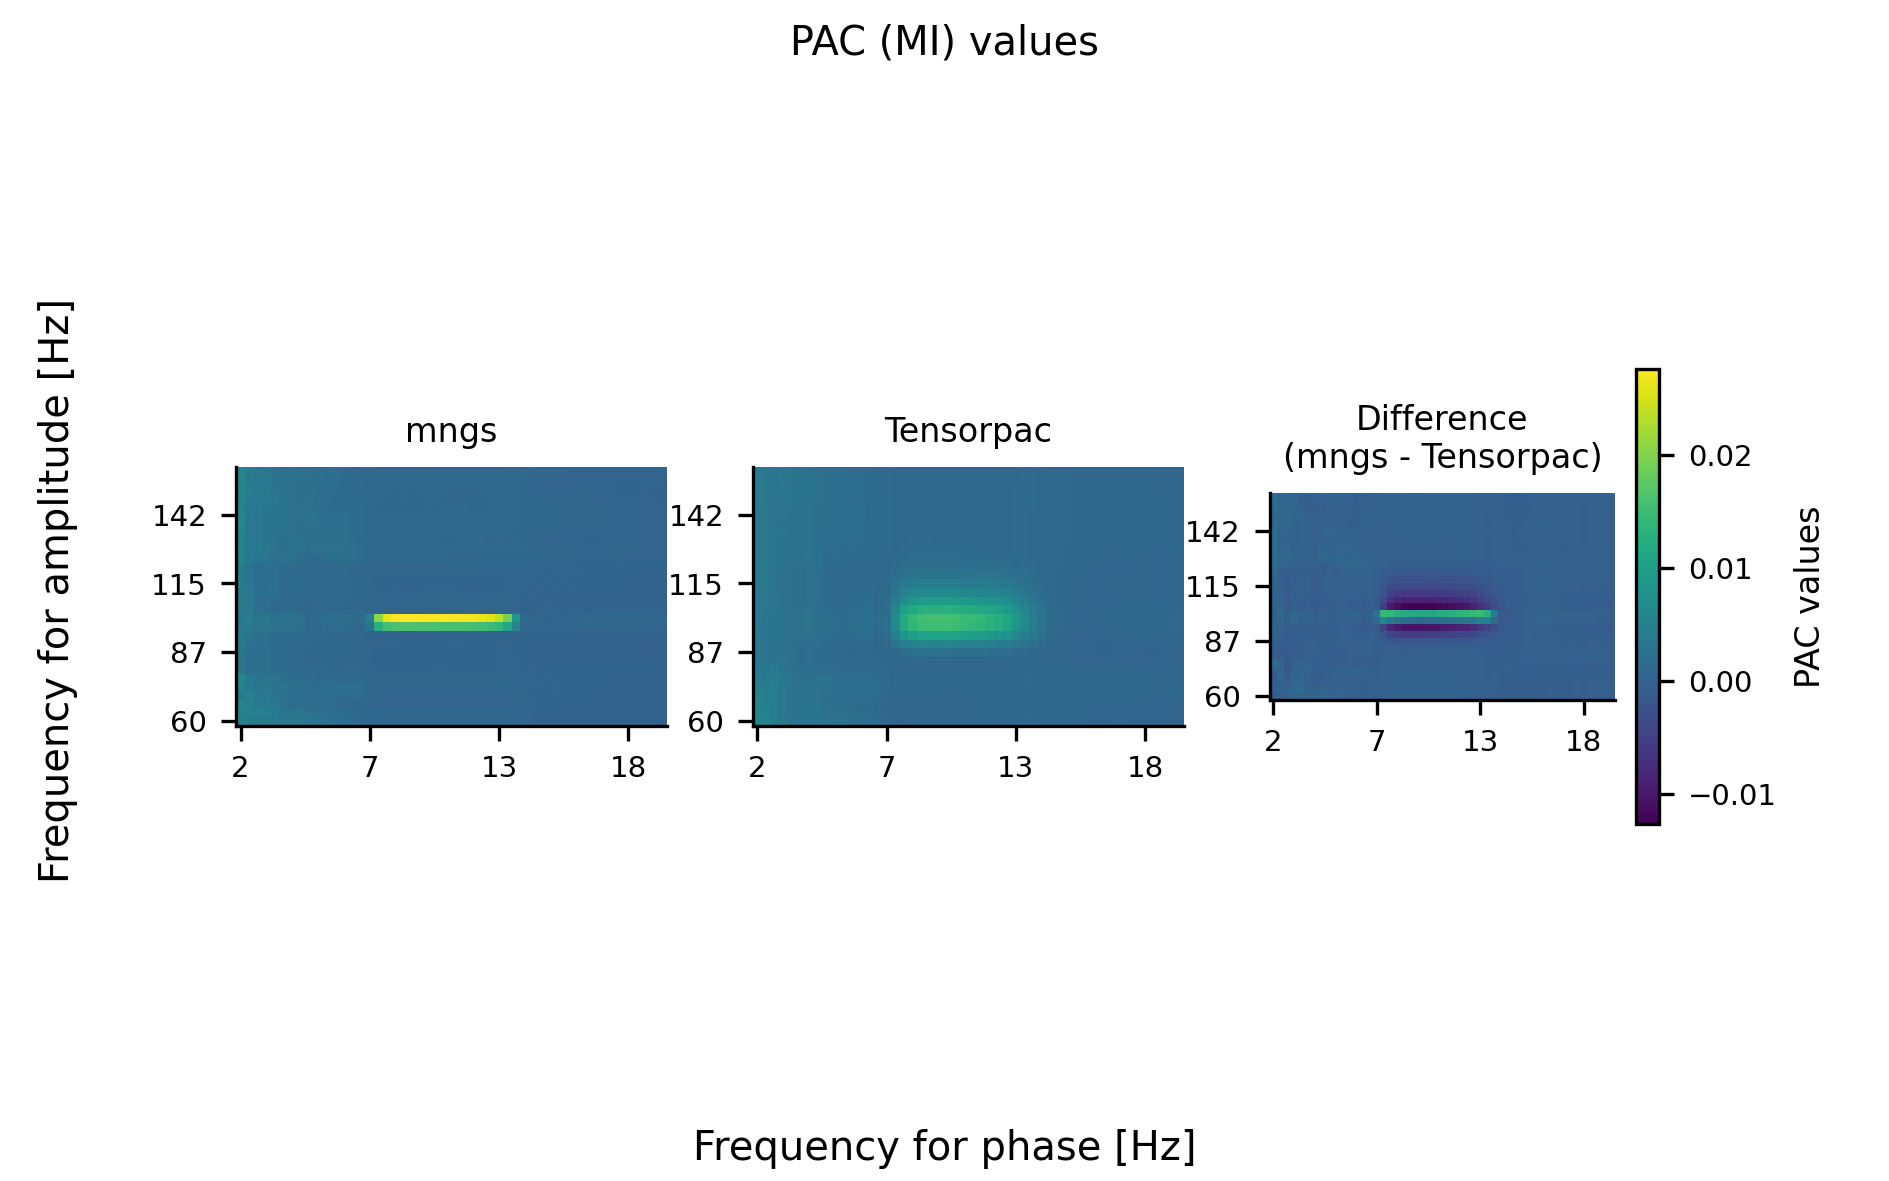
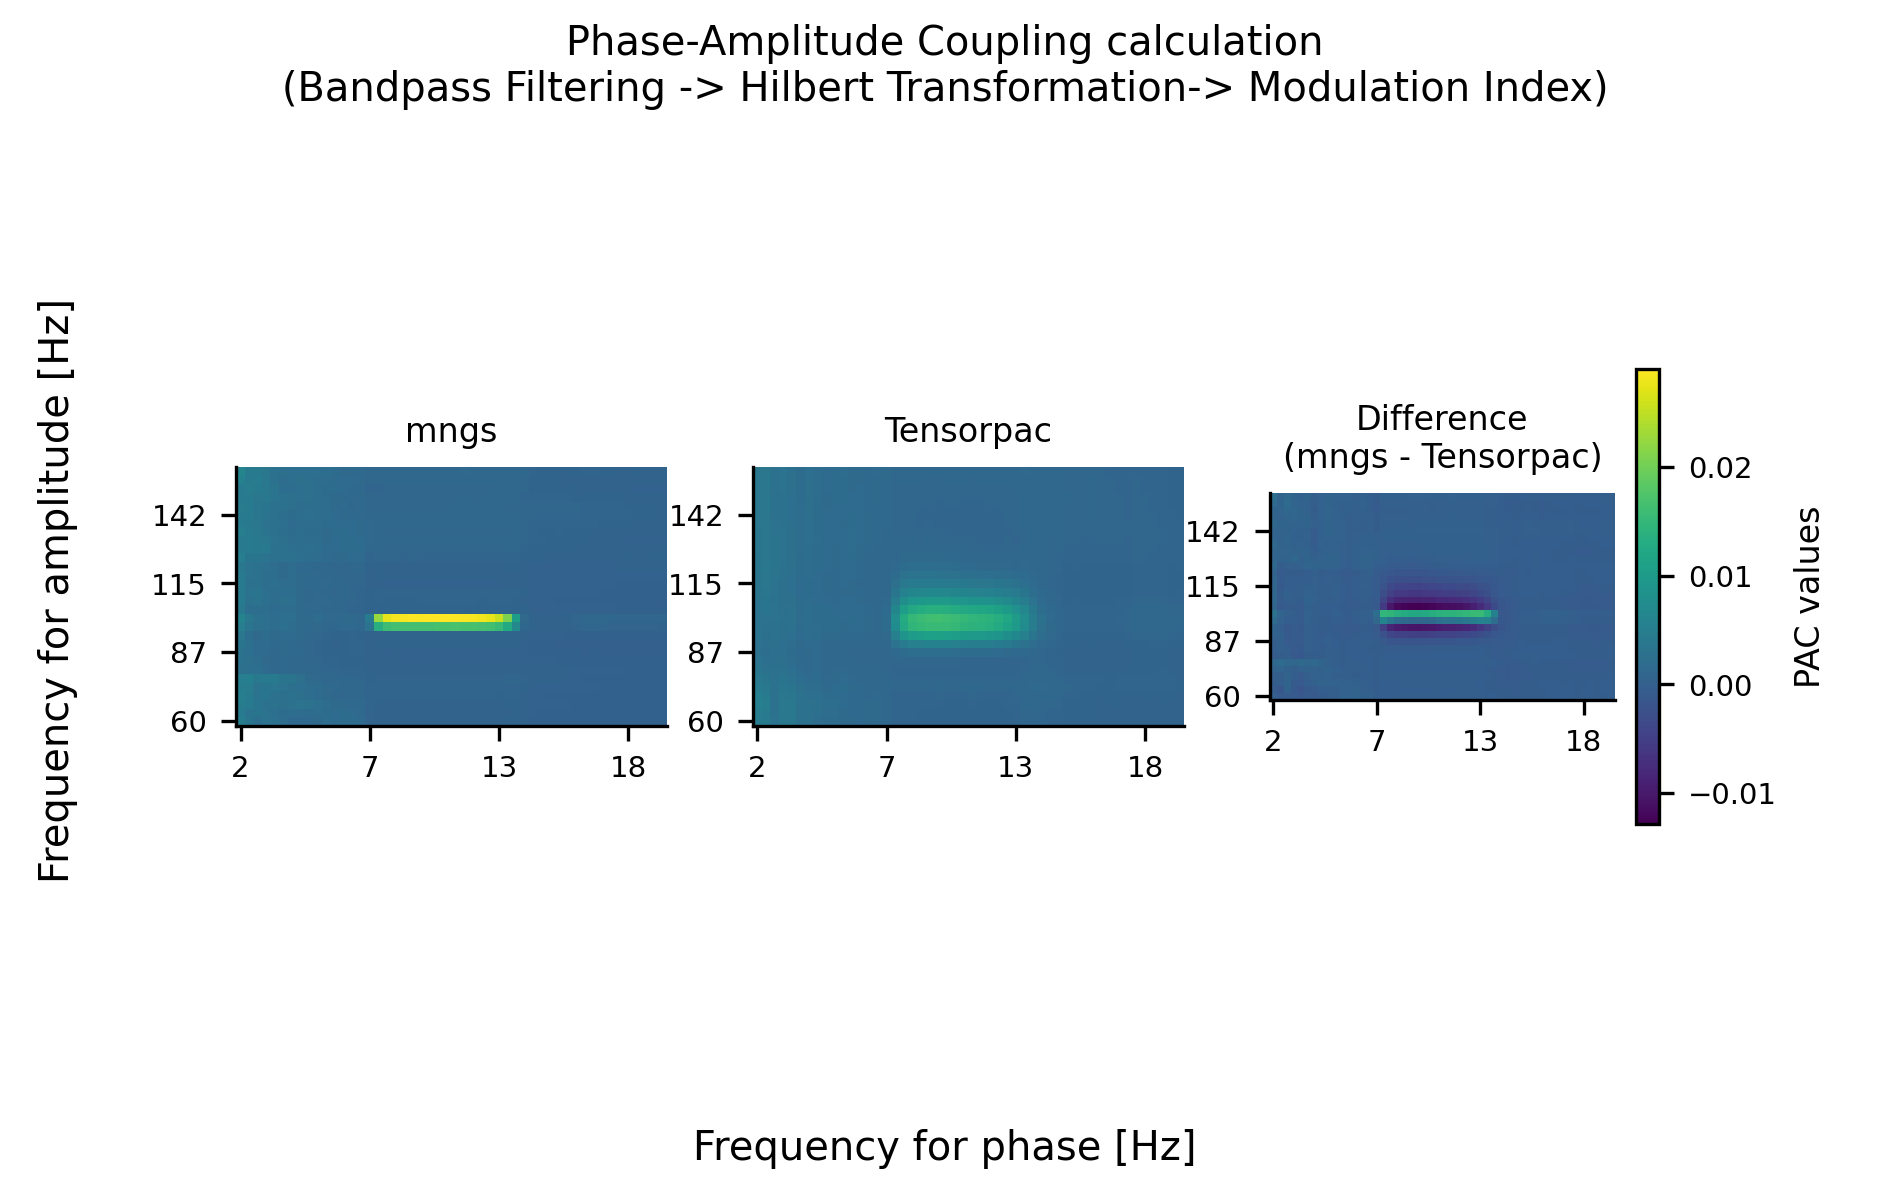
update

diff --git a/src/mngs/dsp/filt.py b/src/mngs/dsp/filt.py
@@ -1,6 +1,6 @@
 #!./env/bin/python3
 # -*- coding: utf-8 -*-
-# Time-stamp: "2024-04-12 23:42:57 (ywatanabe)"
+# Time-stamp: "2024-04-13 02:18:12 (ywatanabe)"
 
 
 import mngs
@@ -55,12 +55,12 @@ if __name__ == "__main__":
     CONFIG, sys.stdout, sys.stderr, plt, cc = mngs.gen.start(sys, plt)
 
     # Parametes
-    T_SEC = 10
+    T_SEC = 1
     SRC_FS = 1024
-    TGT_FS = 128
-    FREQS_HZ = [30, 60, 100, 200, 1000]
+    FREQS_HZ = [3, 10, 30, 100, 300]
     SIG_TYPE = "periodic"
-    BANDS = np.vstack([[45, 75]])
+    BANDS = np.vstack([[5, 60]])
+    SIGMA = 3
 
     # Demo Signal
     xx, tt, fs = mngs.dsp.demo_sig(
@@ -70,23 +70,27 @@ if __name__ == "__main__":
         sig_type=SIG_TYPE,
     )
 
-    # Resampling
-    x_r, t_r = mngs.dsp.resample(xx, fs, TGT_FS, t=tt)
-
     # Filtering
     x_bp, t_bp = mngs.dsp.filt.bandpass(xx, fs, BANDS, t=tt)
     x_bs, t_bs = mngs.dsp.filt.bandstop(xx, fs, BANDS, t=tt)
     x_lp, t_lp = mngs.dsp.filt.lowpass(xx, fs, BANDS[:, 0], t=tt)
     x_hp, t_hp = mngs.dsp.filt.highpass(xx, fs, BANDS[:, 1], t=tt)
-    x_g, t_g = mngs.dsp.filt.gauss(xx, sigma=3, t=tt)
+    x_g, t_g = mngs.dsp.filt.gauss(xx, sigma=SIGMA, t=tt)
     filted = {
-        "Original": (xx, tt, fs),
-        "Resampled": (x_r, t_r, TGT_FS),
-        "Bandpass-filtered": (x_bp, t_bp, fs),
-        "Bandstop-filtered": (x_bs, t_bs, fs),
-        "Lowpass-filtered": (x_lp, t_lp, fs),
-        "Highpass-filtered": (x_hp, t_hp, fs),
-        "Gaussian-filtered": (x_g, t_g, fs),
+        f"Original (Sum of {FREQS_HZ} Hz signals)": (xx, tt, fs),
+        f"Bandpass-filtered ({BANDS[0][0]} - {BANDS[0][1]} Hz)": (
+            x_bp,
+            t_bp,
+            fs,
+        ),
+        f"Bandstop-filtered ({BANDS[0][0]} - {BANDS[0][1]} Hz)": (
+            x_bs,
+            t_bs,
+            fs,
+        ),
+        f"Lowpass-filtered ({BANDS[0][0]} Hz)": (x_lp, t_lp, fs),
+        f"Highpass-filtered ({BANDS[0][1]} Hz)": (x_hp, t_hp, fs),
+        f"Gaussian-filtered (sigma = {SIGMA} SD [point])": (x_g, t_g, fs),
     }
 
     # Plots traces
@@ -104,6 +108,8 @@ if __name__ == "__main__":
             _xx = _xx[i_batch, i_ch, i_filt]
         ax.plot(_tt, _xx, label=k)
         ax.legend(loc="upper left")
+
+    fig.suptitle("Filtered")
     fig.supxlabel("Time [s]")
     fig.supylabel("Amplitude")
     mngs.io.save(fig, "traces.png")
@@ -126,6 +132,8 @@ if __name__ == "__main__":
 
         ax.plot(ff, _psd, label=k)
         ax.legend(loc="upper left")
+
+    fig.suptitle("Filtered")
     fig.supxlabel("Frequency [Hz]")
     fig.supylabel("Power Spectral Density")
     mngs.io.save(fig, "psd.png")

diff --git a/src/mngs/dsp/utils/filter.py b/src/mngs/dsp/utils/filter.py
@@ -1,6 +1,6 @@
 #!./env/bin/python3
 # -*- coding: utf-8 -*-
-# Time-stamp: "2024-04-12 16:59:43 (ywatanabe)"
+# Time-stamp: "2024-04-13 02:04:53 (ywatanabe)"
 
 import matplotlib.pyplot as plt
 import mngs
@@ -85,7 +85,9 @@ def design_filter(
         order = mngs.gen.to_even(order)
         return order
 
-    fs, low_hz, high_hz = int(fs), float(low_hz), float(high_hz)
+    fs = int(fs)
+    low_hz = float(low_hz) if low_hz is not None else low_hz
+    high_hz = float(high_hz) if high_hz is not None else high_hz
     filter_mode = estimate_filter_type(low_hz, high_hz, is_bandstop)
     cutoff = determine_cutoff_frequencies(filter_mode, low_hz, high_hz)
     low_freq = determine_low_freq(filter_mode, low_hz, high_hz)

diff --git a/src/mngs/dsp/_pac.py b/src/mngs/dsp/_pac.py
@@ -1,6 +1,6 @@
 #!/usr/bin/env python3
 # -*- coding: utf-8 -*-
-# Time-stamp: "2024-04-12 23:28:26 (ywatanabe)"
+# Time-stamp: "2024-04-13 02:23:55 (ywatanabe)"
 
 import sys
 
@@ -121,6 +121,9 @@ if __name__ == "__main__":
             # Plots
             fig = mngs.dsp.utils.pac.plot_PAC_mngs_vs_tensorpac(
                 pac_mngs, pac_tp, pha_mids_mngs, amp_mids_mngs
+            )
+            fig.suptitle(
+                "Phase-Amplitude Coupling calculation\n(Bandpass Filtering -> Hilbert Transformation-> Modulation Index)"
             )
 
             # Saves the figure

diff --git a/src/mngs/dsp/_demo_sig.py b/src/mngs/dsp/_demo_sig.py
@@ -1,6 +1,6 @@
 #!/usr/bin/env python3
 # -*- coding: utf-8 -*-
-# Time-stamp: "2024-04-12 23:42:16 (ywatanabe)"
+# Time-stamp: "2024-04-13 01:58:46 (ywatanabe)"
 
 
 """
@@ -300,6 +300,9 @@ if __name__ == "__main__":
         else:
             ax.plot(tt, xx[i_batch, i_ch, i_segment], label=sig_type)
         ax.legend(loc="upper left")
+    fig.suptitle("Demo signals")
+    fig.supxlabel("Time [s]")
+    fig.supylabel("Amplitude [?V]")
     mngs.io.save(fig, "traces.png")
 
     # Close

diff --git a/src/mngs/dsp/_modulation_index.py b/src/mngs/dsp/_modulation_index.py
@@ -1,6 +1,6 @@
 #!/usr/bin/env python3
 # -*- coding: utf-8 -*-
-# Time-stamp: "2024-04-12 23:51:37 (ywatanabe)"
+# Time-stamp: "2024-04-13 02:20:29 (ywatanabe)"
 
 import torch
 from mngs.general import torch_fn
@@ -68,6 +68,7 @@ if __name__ == "__main__":
     fig = mngs.dsp.utils.pac.plot_PAC_mngs_vs_tensorpac(
         pac_mngs, pac_tp, freqs_pha, freqs_amp
     )
+    fig.title("MI (modulation index) calculation")
     mngs.io.save(fig, "modulation_index.png")
 
     # Close

diff --git a/src/mngs/dsp/_hilbert.py b/src/mngs/dsp/_hilbert.py
@@ -1,6 +1,6 @@
 #!/usr/bin/env python3
 # -*- coding: utf-8 -*-
-# Time-stamp: "2024-04-13 00:17:52 (ywatanabe)"
+# Time-stamp: "2024-04-13 02:24:36 (ywatanabe)"
 
 """
 This script does XYZ.
@@ -46,6 +46,7 @@ if __name__ == "__main__":
 
     # Plots
     fig, axes = mngs.plt.subplots(nrows=2, sharex=True)
+    fig.suptitle("Hilbert Transformation")
 
     axes[0].plot(tt, xx[0, 0], label=SIG_TYPE)
     axes[0].plot(tt, amp[0, 0], label="Amplidue")

diff --git a/src/mngs/dsp/README.md b/src/mngs/dsp/README.md
@@ -1,5 +1,5 @@
 # mngs.dsp
-This mngs.dsp module is a digital signal processing toolbox developed in **PyTorch**. It performs calculations using torch.tensor. However, it also accommodates inputs in the form of **numpy.ndarray** and **pd.DataFrame** through wrapper functions. For example, if the input is a numpy.ndarray, it is initially converted to a torch.tensor (**utilizing CUDA automatically** when available), processed, and subsequently **returned in its original datatype** (numpy.ndarray). Additionally, [`mngs.dsp.nn`]("./dsp.nn") features PyTorch modules designed for straightforward integration into machine learning projects.
+The mngs.dsp module is a digital signal processing toolbox developed in **PyTorch**. It performs calculations using **torch.tensor** on **CUDA** devices when available. This package also accepts **np.array** and **pd.DataFrame**, handling them accordingly (torch.tensor -> torch.tensor -> torch.tensor; np.array -> torch.tensor -> np.array; pd.DataFrame -> torch.tensor -> np.array). Additionally, PyTorch modules are written in [`mngs.dsp.nn`]("../nn") for integration into machine learning projects.
 
 ## Installation
 ```bash
